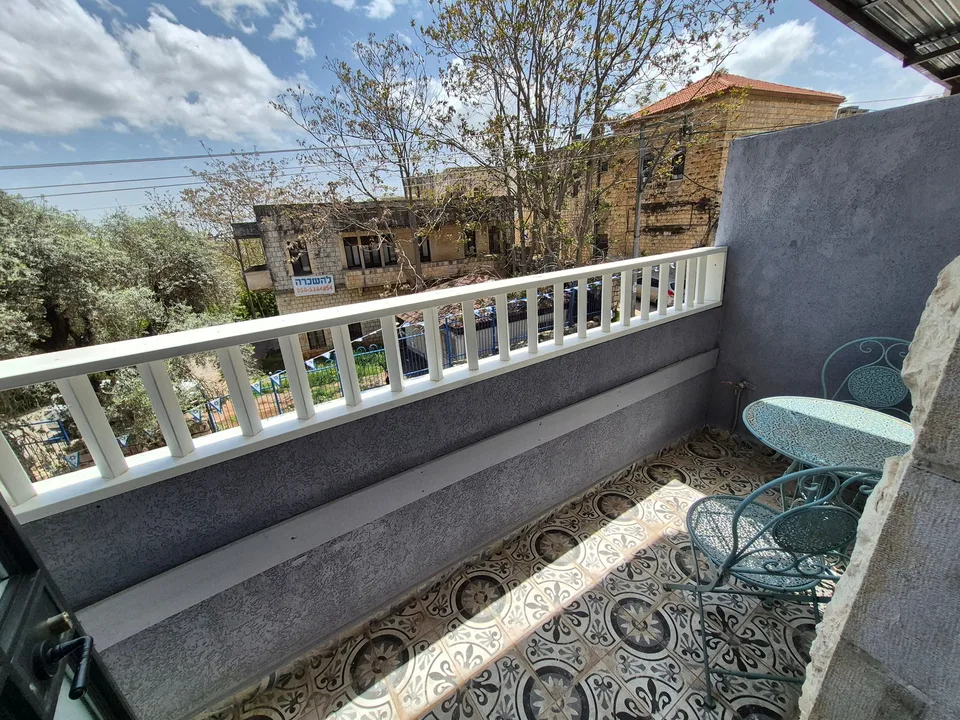
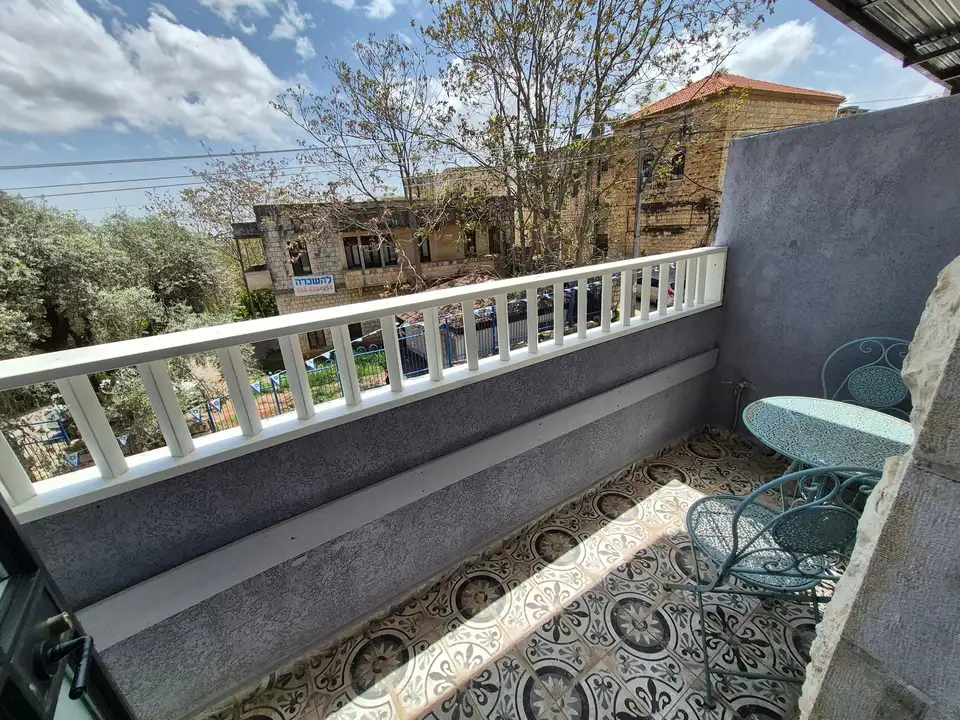
fix(content): open Ma'ayan B on its living-loft photo
Ma'ayan B showed the same first photo as Ma'ayan A. It now opens on the
living area with the wooden loft (the owner's ALB_8759-1.jpg), the user's
choice of 2026-11-09; the same eight files, reordered, no file added.

Panorami's page lists Ma'ayan A and B among its next apartments, so two
different row photos now load there (1021 KB, over the 1 MB budget). Its
balcony photo's 960 file is held to 140 KB (--phone-kb=140, from the same
1600 px cut), bringing the page to 952 KB. Rights rows and roadmap 4x.

Changed region(s): [[0.4688, 0.0, 0.5, 0.0306]]

diff --git a/tests/e2e/real-apartments.spec.ts b/tests/e2e/real-apartments.spec.ts
@@ -76,10 +76,10 @@ const APARTMENTS = [
     nameEn: "Ma'ayan A",
   },
   {
-    // the same eight photo files as Ma'ayan A (another unit; the user's decision, 2026-11-08)
+    // the same eight photo files as Ma'ayan A (another unit; the user's decision, 2026-11-08), led by another photo (2026-11-09)
     id: 'maayan-b',
     photoFolder: 'maayan-a',
-    second: 'courtyard-jacuzzi',
+    second: 'bedroom-vault',
     secondWidth: 1280,
     photos: 8,
     maxGuests: 2,

diff --git a/src/content/photos.md b/src/content/photos.md
@@ -64,7 +64,7 @@ here is not used. `npm run launch:check` fails while any row says "sample" or "c
 | `panorami-yerushalayim-97/living-dining-640.webp`, `-960`, `-1280`, `-1920` | the owner's phone photo `20260427_123042.jpg` (4000 x 3000, a Samsung Galaxy S24 FE, 2026-04-27, no creator and no mark of an AI tool in the file), sent by the user on 2026-11-08; made with `npm run photos:add` | taken by the owner or his client (not stated), the user's word (2026-11-08); **written confirmation still to come** |
 | `panorami-yerushalayim-97/bedroom-vaulted-640.webp`, `-960`, `-1280`, `-1920` | the owner's phone photo `20260427_123410.jpg` (4000 x 3000, a Samsung Galaxy S24 FE, 2026-04-27, no creator and no mark of an AI tool in the file), sent by the user on 2026-11-08; made with `npm run photos:add` | taken by the owner or his client (not stated), the user's word (2026-11-08); **written confirmation still to come** |
 | `panorami-yerushalayim-97/kitchen-640.webp`, `-960`, `-1280` | the owner's phone photo `20260427_122926.jpg` (4000 x 3000, a Samsung Galaxy S24 FE, 2026-04-27, no creator and no mark of an AI tool in the file), sent by the user on 2026-11-08; made with `npm run photos:add` (cut to 1600 px wide first, because a 1920 file needed too low a quality; so only 640, 960 and 1280) | taken by the owner or his client (not stated), the user's word (2026-11-08); **written confirmation still to come** |
-| `panorami-yerushalayim-97/balcony-640.webp`, `-960`, `-1280` | the owner's phone photo `20260427_124005.jpg` (4000 x 3000, a Samsung Galaxy S24 FE, 2026-04-27, no creator and no mark of an AI tool in the file), sent by the user on 2026-11-08; made with `npm run photos:add` (cut to 1600 px wide first, because a 1920 file needed too low a quality; so only 640, 960 and 1280) | taken by the owner or his client (not stated), the user's word (2026-11-08); **written confirmation still to come** |
+| `panorami-yerushalayim-97/balcony-640.webp`, `-960`, `-1280` | the owner's phone photo `20260427_124005.jpg` (4000 x 3000, a Samsung Galaxy S24 FE, 2026-04-27, no creator and no mark of an AI tool in the file), sent by the user on 2026-11-08; made with `npm run photos:add --phone-kb=140` (the 960 file held to 140 KB on 2026-11-09, because Ma'ayan B's new main photo made this page's rows heavier: 1021 KB before) (cut to 1600 px wide first, because a 1920 file needed too low a quality; so only 640, 960 and 1280) | taken by the owner or his client (not stated), the user's word (2026-11-08); **written confirmation still to come** |
 | `panorami-yerushalayim-97/dining-lounge-640.webp`, `-960`, `-1280` | the owner's phone photo `20260427_123354.jpg` (4000 x 3000, a Samsung Galaxy S24 FE, 2026-04-27, no creator and no mark of an AI tool in the file), sent by the user on 2026-11-08; made with `npm run photos:add` (cut to 1600 px wide first, because a 1920 file needed too low a quality; so only 640, 960 and 1280) | taken by the owner or his client (not stated), the user's word (2026-11-08); **written confirmation still to come** |
 | `panorami-yerushalayim-97/living-sofa-640.webp`, `-960`, `-1280` | the owner's phone photo `20260427_123154.jpg` (4000 x 3000, a Samsung Galaxy S24 FE, 2026-04-27, no creator and no mark of an AI tool in the file), sent by the user on 2026-11-08; made with `npm run photos:add` (cut to 1600 px wide first, because a 1920 file needed too low a quality; so only 640, 960 and 1280) | taken by the owner or his client (not stated), the user's word (2026-11-08); **written confirmation still to come** |
 | `panorami-yerushalayim-97/bedroom-double-640.webp`, `-960`, `-1280`, `-1920` | the owner's phone photo `20260427_124242.jpg` (4000 x 3000, a Samsung Galaxy S24 FE, 2026-04-27, no creator and no mark of an AI tool in the file), sent by the user on 2026-11-08; made with `npm run photos:add` | taken by the owner or his client (not stated), the user's word (2026-11-08); **written confirmation still to come** |
@@ -128,7 +128,7 @@ The 960 files of all thirty photos were added on 2026-11-03 (`feature/shrink-row
 photographer's licence for web use), and that anyone recognisable agreed to appear. No photo copied from Booking,
 Airbnb or any other site.
 
-Ma'ayan B (2026-11-08) is another unit that shows the same eight files as Ma'ayan A (`maayan-a/...`, the user's decision); no file was added for it, so the rows above are its rows too, and the owner is asked for photos of Ma'ayan B itself (`docs/owner-requests.md`, 6.30).
+Ma'ayan B (2026-11-08) is another unit that shows the same eight files as Ma'ayan A (`maayan-a/...`, the user's decision); no file was added for it, so the rows above are its rows too, and the owner is asked for photos of Ma'ayan B itself (`docs/owner-requests.md`, 6.30). Its main photo is `living-loft` (the owner's `ALB_8759-1.jpg`), so its page and its row do not open on the same picture as Ma'ayan A (the user, 2026-11-09).
 
 Nobility 1 (2026-11-08): the file names are Hebrew marketing captions; a towel in the interior photo reads "NOBILITY BOUTIQUE SUITES" (the owner's own brand for these suites, to confirm with him). Nobility 2 and 3 are one session (Sony A7 IV, 2025-08-05). Their folders share three near-identical balcony shots (`DSC05870`, `DSC05874`, `DSC05875`); only Nobility 2 shows one of them (`balcony-view`), and Nobility 3 shows its own balcony shot (`DSC06020`), so no photo is shown for two units. Portrait photos (bathrooms and details of Nobility 2) were left out.
 

diff --git a/docs/roadmap.md b/docs/roadmap.md
@@ -210,6 +210,7 @@ In this order; each one is its own branch, and nothing starts before the one abo
 4u. Stage 5 (the same branch, counted in the same content point): the eleventh apartment, "נוביליטי 2" / "Nobility 2" (`order: 10`), a couples' suite with a separate bedroom, a living room, **a large couples' jacuzzi** and a private balcony with a panoramic view. Ten photos from one Sony A7 IV session (2025-08-05; no creator named; the main one is `DSC05903`), the owner's text in both languages without its title line, Wi-Fi by the standing rule, 2 guests (to confirm, 6.35). Portrait photos (both bathroom shots) were left out. The owner is asked where the jacuzzi is (6.36), who took the photos (6.37) and what the balcony photos show (6.38).
 4v. Stage 5 (the same branch): the twelfth apartment, "נוביליטי 3" / "Nobility 3" (`order: 11`), the same kind of suite with its own ten photos (main `DSC05812`); the three balcony shots both folders held are shown only in Nobility 2, so no photo is shown for two units (H1). 2 guests (to confirm, 6.39). The wrap-around test now ends on it. With both, the home page folds six apartments.
 4w. Stage 5 (the same branch): the thirteenth apartment, "צימר ט״ז 8" / "Tet-Zayin 8" (`order: 12`; the user chose the English name and the page address `tet-zayin-8` on 2026-11-09, because the English text had none), a romantic stone suite in a restored Arab house in Old Tzfat with **a large couples' jacuzzi**. Six photos from 1024 px web copies (no camera data; so only 640 and 960 files; the main one is `IMG_0069a`); a copy of the main photo and an outdoor tone-mapped square were left out. The owner's text in both languages without its title and tagline lines, Wi-Fi by the standing rule, 2 guests (to confirm, 6.42). The owner is asked for the originals and the photographer (6.43, 6.44). The browser tests take `gridSrc` of 960 for it. With it the home page folds seven apartments.
+4x. Stage 5, `fix/maayan-b-main-photo` (counted in the same content point): Ma'ayan B now opens on the living area with the wooden loft (`living-loft`, the owner's `ALB_8759-1.jpg`) instead of the vaulted bedroom that leads Ma'ayan A (the user, 2026-11-09). The same eight files, reordered; no file added, the page weight unchanged (the same five grid photos).
 
 5. Stage 1, `feature/i18n-he-en` (3): **done and merged; built 2026-10-31** (the plan was approved by the user; there was no commit yet, so
    it is part of the first commit). Hebrew at `/`, English at `/en/`, a language link on every page, every text in both

diff --git a/src/content/cabins/maayan-b.md b/src/content/cabins/maayan-b.md
@@ -43,6 +43,13 @@ features:
   - he: אינטרנט אלחוטי (Wi-Fi)
     en: Wi-Fi
 photos:
+  - src: /photos/maayan-a/living-loft-1280.webp
+    widths: [640, 960, 1280]
+    alt:
+      he: חלל מגורים עם קירות ותקרת אבן, כורסה חומה גבוהה בצורת קליפה, שטיח פרווה חום, טלוויזיה ולופט עץ מעל
+      en: A living area with stone walls and ceiling, a tall brown shell-shaped armchair, a brown fur rug, a television and a wooden loft above
+    width: 1280
+    height: 848
   - src: /photos/maayan-a/bedroom-vault-1280.webp
     widths: [640, 960, 1280]
     alt:
@@ -57,13 +64,6 @@ photos:
       en: A bubbling jacuzzi with a bowl of fruit on its edge, and behind it a swing seat with a fabric canopy, a lawn and stone walls
     width: 1280
     height: 850
-  - src: /photos/maayan-a/living-loft-1280.webp
-    widths: [640, 960, 1280]
-    alt:
-      he: חלל מגורים עם קירות ותקרת אבן, כורסה חומה גבוהה בצורת קליפה, שטיח פרווה חום, טלוויזיה ולופט עץ מעל
-      en: A living area with stone walls and ceiling, a tall brown shell-shaped armchair, a brown fur rug, a television and a wooden loft above
-    width: 1280
-    height: 848
   - src: /photos/maayan-a/courtyard-dining-1280.webp
     widths: [640, 960, 1280]
     alt:
